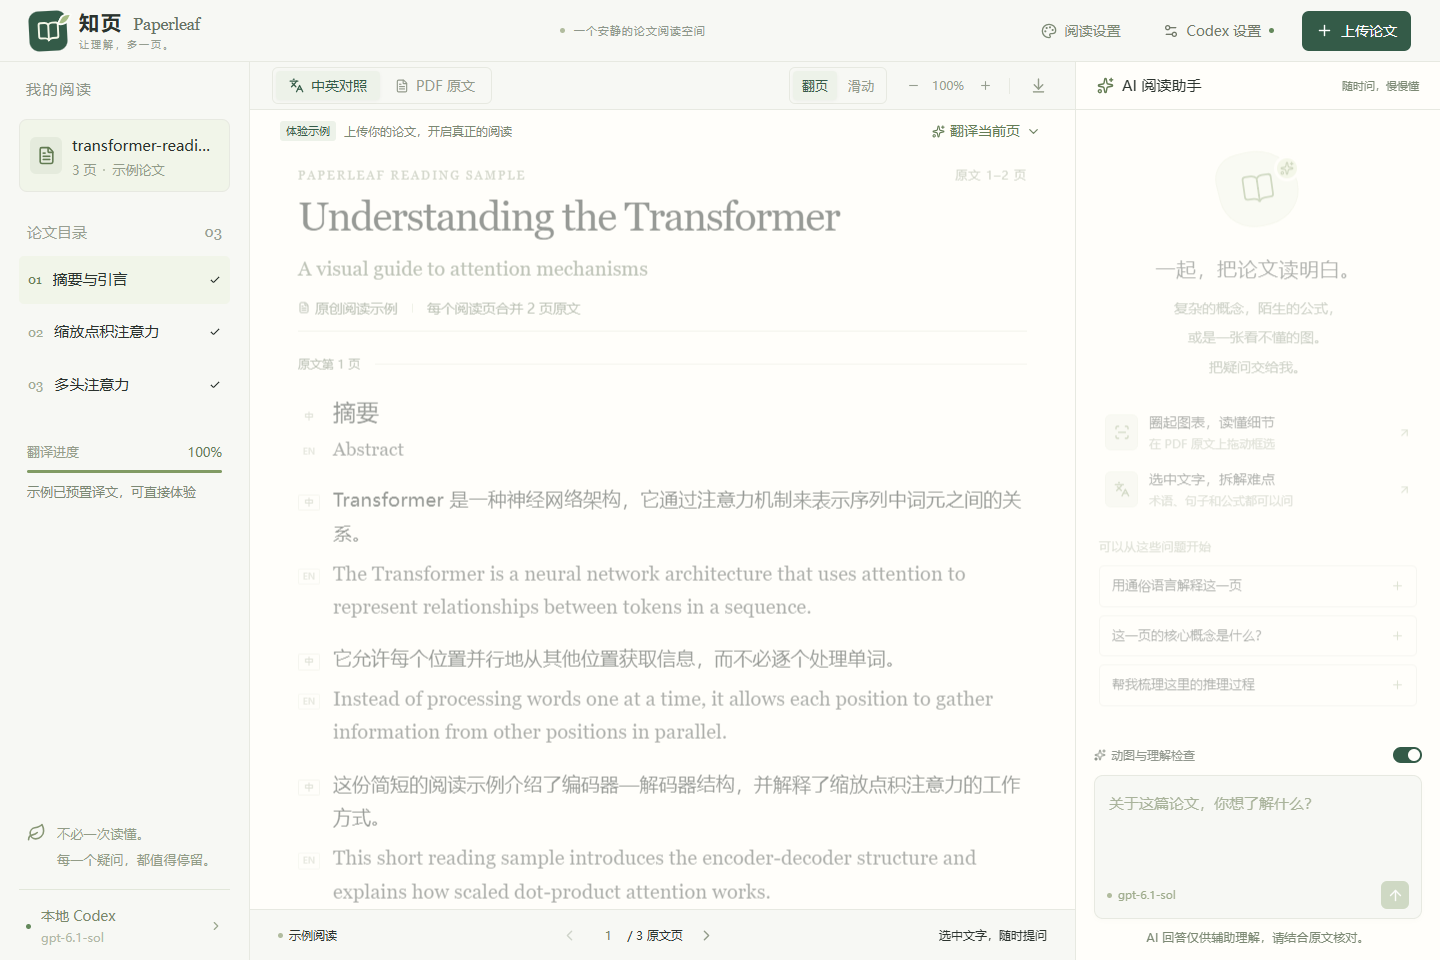
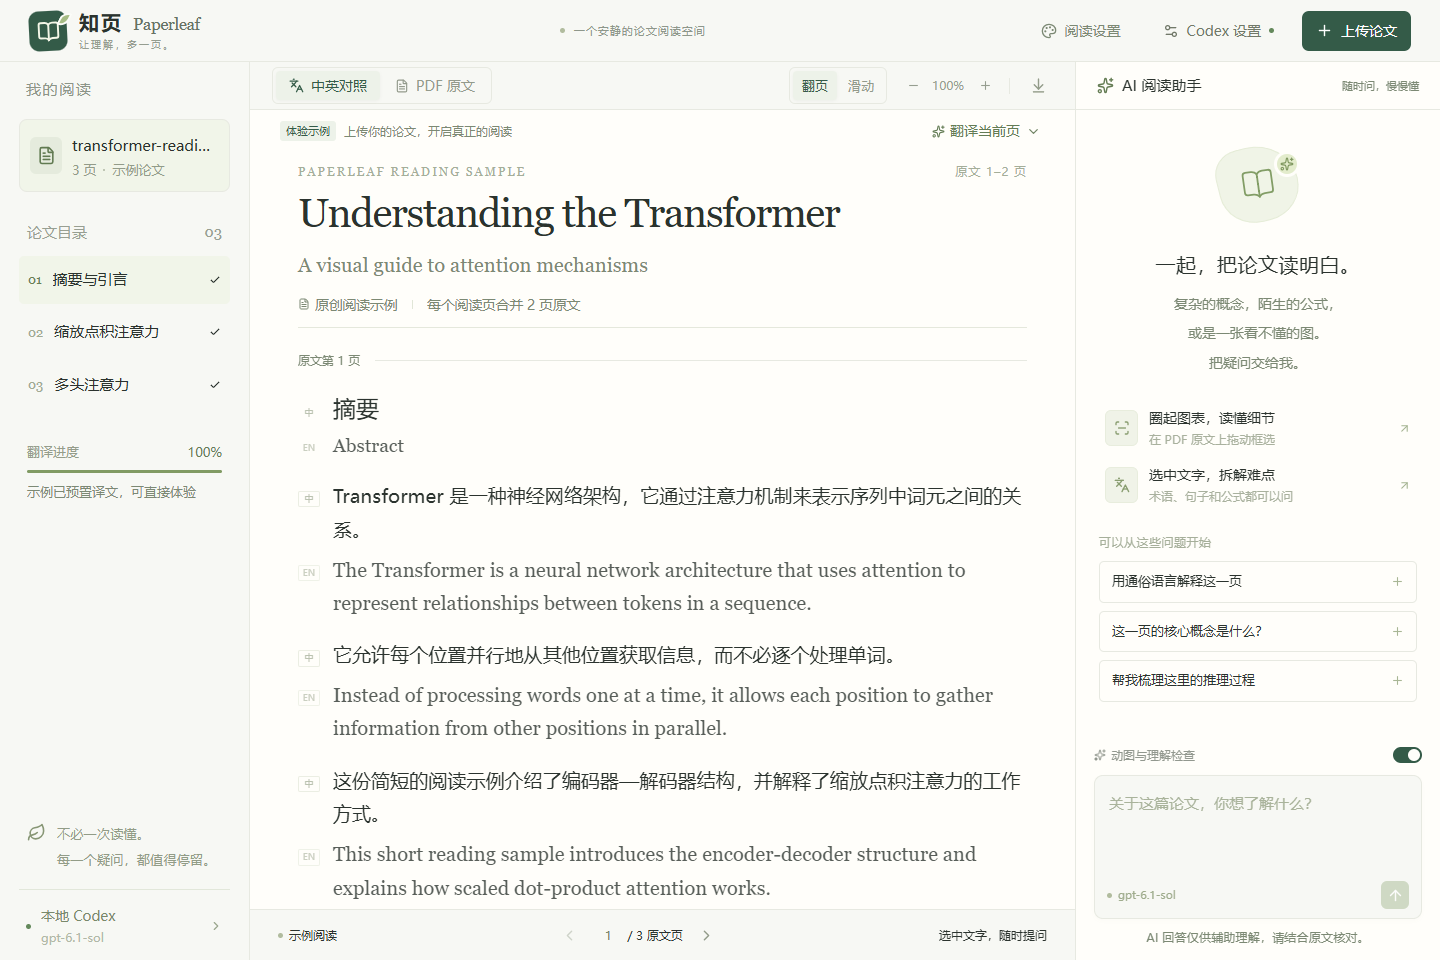
Record clean portable installation checks and refresh preview

diff --git a/验证记录.md b/验证记录.md
@@ -8,6 +8,6 @@
 - 真实 Codex 教学接口与网页调用通过：以「我→喜欢→学习」生成 KV Cache 对比及理解检查；网页一次测试约 13 秒出现首段文字、26 秒完成教学结果，放大后计数为无缓存 6 / 有缓存 3。响应时间随网络、模型和问题变化。
 - 已实际验证真实 PDF 全文逐批翻译、文字解释、图表截图解释和视觉 OCR，译文返回网页逐句对应。这些接入检查不等于对任意论文准确率的评测。
 - 默认正文 18 px、目录 15 px，字号可设置 14–24 px；顶部栏由 79 px 缩小至 62 px，正文顶部留白缩小。字号跨刷新保存、深色标题可读性及手机最大字号布局通过。即时 KV 概念预览一次测试约 68 ms 显示，随后以生成内容替换。
-- 桌面启动及重复点击复用服务通过。便携入口具备按系统检测、首次依赖安装和动态端口，跨系统实机验证限于 Windows。
+- 桌面启动及重复点击复用服务通过。便携包在全新解压目录完成首次 npm ci（786 个依赖包）、启动、避开占用端口、登录检测及 8 个模型列表读取；16 项测试和类型检查也通过。源码副本在没有 .openai 配置的目录完成生产构建。跨系统实机验证限于 Windows。
 
 本产品为本机工具，需要目标电脑安装并登录 Codex；不连接现有桌面聊天。演示 PDF 的译文预先准备，上传真实 PDF 才执行真实翻译。
